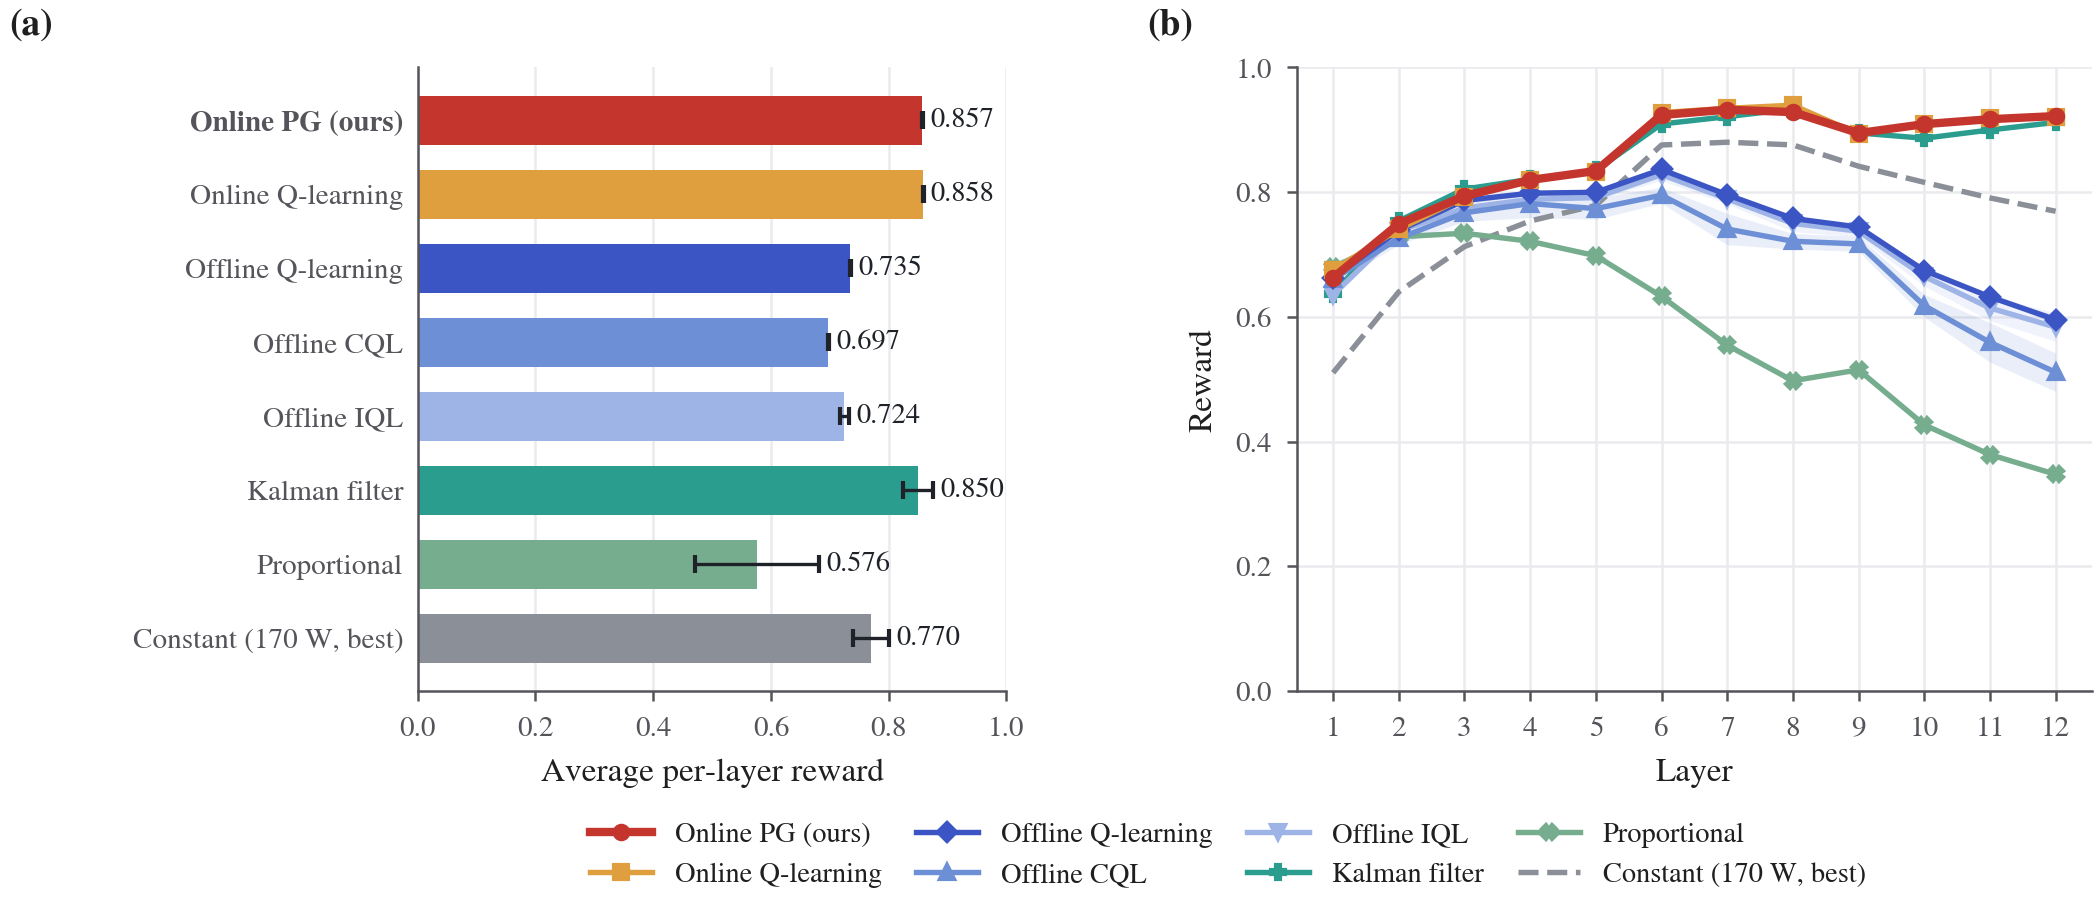
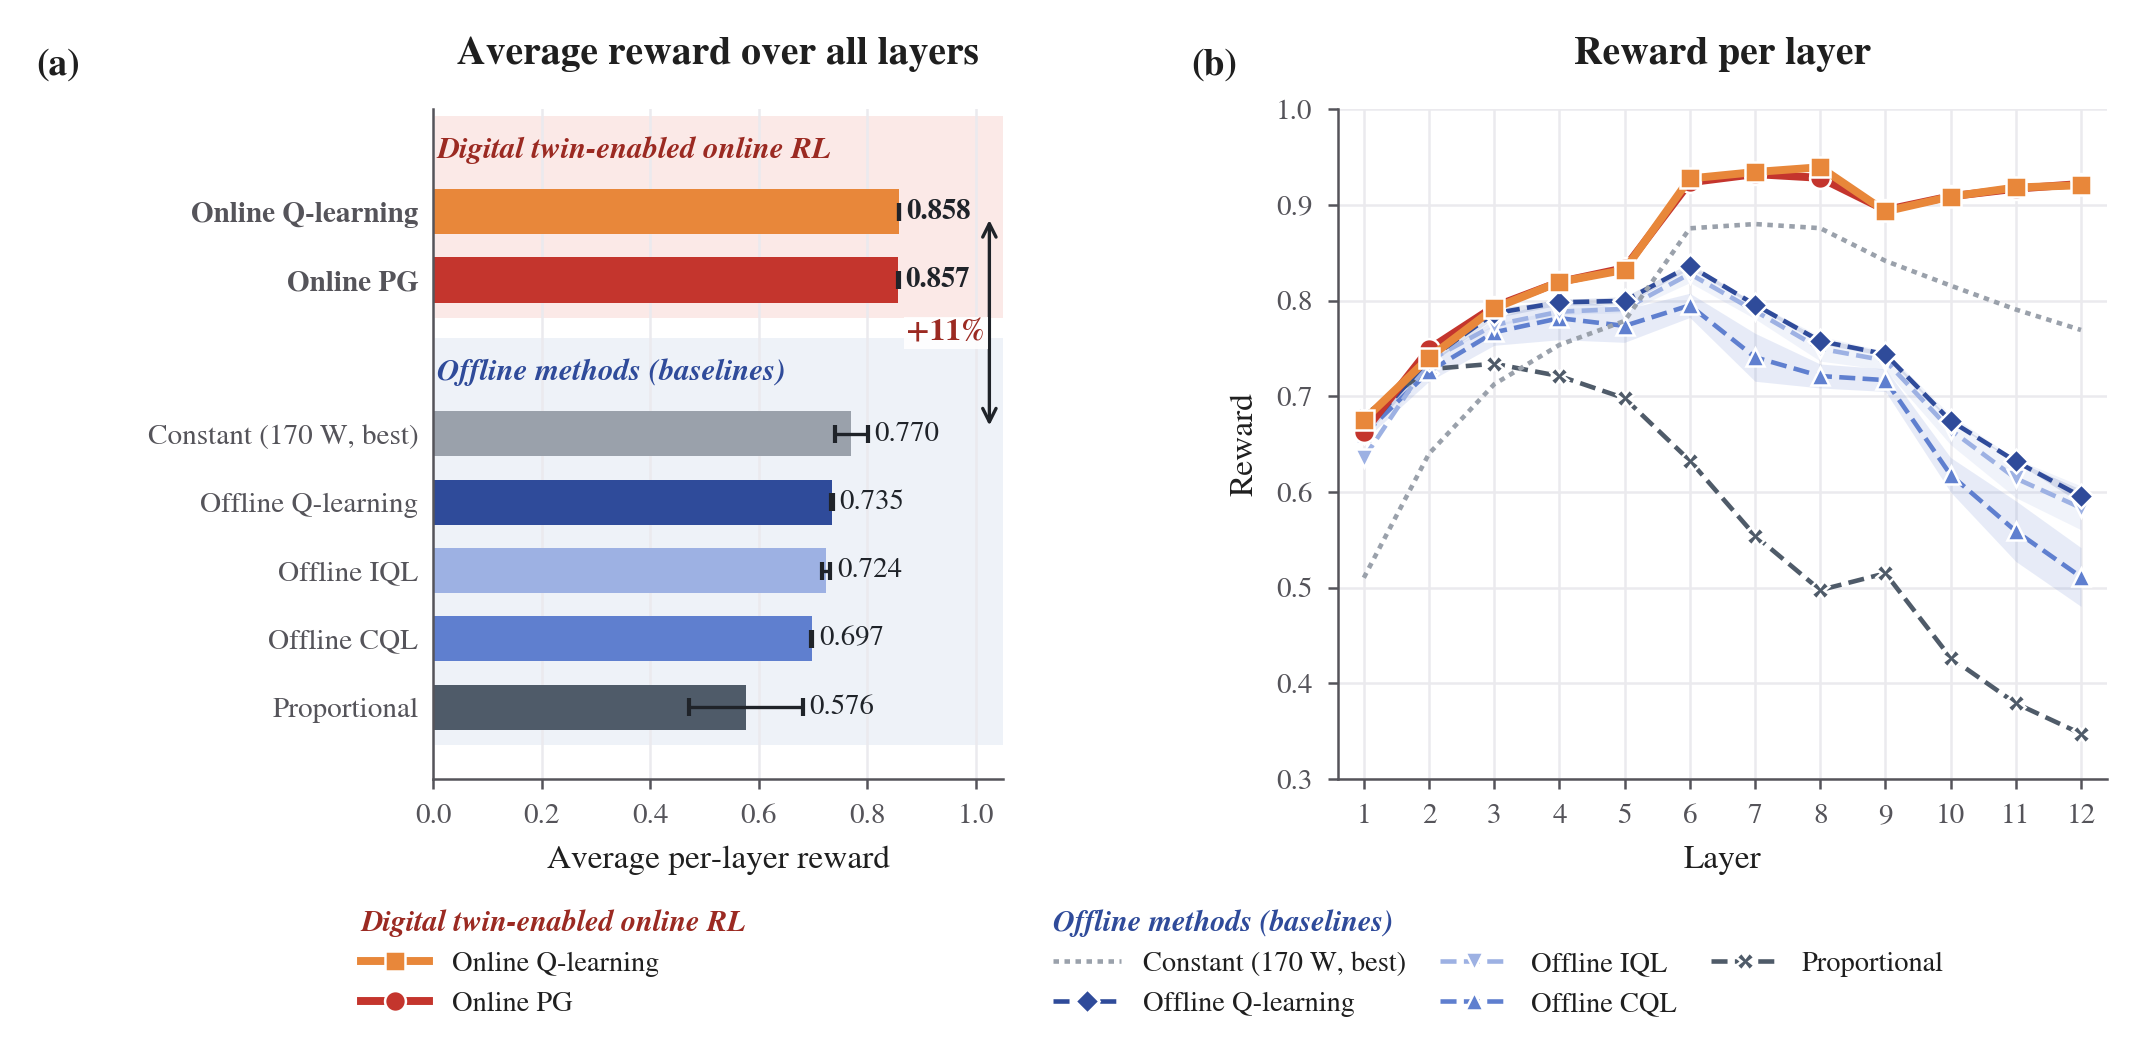
Revise: figures

diff --git a/rl_narrow/plot_results.py b/rl_narrow/plot_results.py
@@ -7,7 +7,8 @@ Paper figure of the real-physics comparison (narrow setting), from rl_narrow/res
   (b) per-layer reward (mean over episodes and seeds; band: std across seeds for multi-seed methods).
 Reward = method.tex reward with w = 1, i.e. the ROI mean exp(-d / W_T) of the real end-of-heating field,
 so every method is scored on the same physical quality measure. Constant power: the best value in
-hindsight on these episodes.
+hindsight on these episodes. Methods are grouped into digital twin-enabled online RL and offline methods
+(no digital twin); the Kalman filter is not shown.
 
     python -m rl_narrow.plot_results --results_dir rl_narrow/results_real \
         --out Document/figures/fig_rl_comparison
@@ -28,17 +29,20 @@ import numpy as np
 sys.path.insert(0, os.path.dirname(os.path.dirname(os.path.abspath(__file__))))
 from surrogate_model_v3.paper_figure_ood import PAPER_RC, INK_2, GRID, _panel_label
 
-# display order and style (family name as written by rl_narrow/jobs/eval_real.sh)
+# display order and style (family name as written by rl_narrow/jobs/eval_real.sh); group: "online" uses the
+# digital twin, "offline" never does (Kalman filter deliberately not shown)
+ONLINE_TITLE = "Digital twin-enabled online RL"
+OFFLINE_TITLE = "Offline methods (baselines)"
 STYLE = [
-    ("PG shaped (ours)",  "Online PG (ours)",  "#c4352d", "o", 2.0),
-    ("Online Q shaped",   "Online Q-learning", "#e09f3e", "s", 1.3),
-    ("Offline FQI",       "Offline Q-learning", "#3b55c4", "D", 1.3),
-    ("Offline CQL",       "Offline CQL",       "#6d8fd6", "^", 1.3),
-    ("Offline IQL",       "Offline IQL",       "#9fb4e6", "v", 1.3),
-    ("Kalman filter",     "Kalman filter",     "#2a9d8f", "P", 1.3),
-    ("Proportional",      "Proportional",      "#76ad8f", "X", 1.3),
-    ("Constant",          None,                "#8a8f98", "", 1.3),     # label set from best power
+    ("PG shaped (ours)",  "Online PG",          "#c4352d", "o", 1.9, "online"),
+    ("Online Q shaped",   "Online Q-learning",  "#e8873a", "s", 1.9, "online"),
+    ("Offline FQI",       "Offline Q-learning", "#2f4b9a", "D", 1.1, "offline"),
+    ("Offline CQL",       "Offline CQL",        "#5f7fcf", "^", 1.1, "offline"),
+    ("Offline IQL",       "Offline IQL",        "#9db1e3", "v", 1.1, "offline"),
+    ("Proportional",      "Proportional",       "#4f5b69", "X", 1.1, "offline"),
+    ("Constant",          None,                 "#9aa1ab", "",  1.1, "offline"),   # label set from best power
 ]
+BAND = {"online": "#fbe9e7", "offline": "#eef2f8"}
 
 
 def load(results_dir):
@@ -71,9 +75,9 @@ def main():
     p_best = fams.pop("_const_power", None)
 
     plt.rcParams.update(PAPER_RC)
-    fig, (axa, axb) = plt.subplots(1, 2, figsize=(7.2, 2.7), gridspec_kw=dict(width_ratios=[1, 1.35], wspace=0.42))
+    fig, (axa, axb) = plt.subplots(1, 2, figsize=(7.2, 2.9), gridspec_kw=dict(width_ratios=[1, 1.35], wspace=0.50))
     rows = []
-    for key, label, col, mk, lw in STYLE:
+    for key, label, col, mk, lw, grp in STYLE:
         if key not in fams:
             continue
         Ms = fams[key]
@@ -82,49 +86,90 @@ def main():
         mean = per_seed.mean()
         err = per_seed.std() if len(Ms) > 1 else Ms[0].mean(1).std()
         curve = np.stack([M.mean(0) for M in Ms])                                    # (seeds, layers)
-        rows.append((label, col, mk, lw, mean, err, curve))
+        rows.append((label, col, mk, lw, mean, err, curve, grp))
 
-    # (a) average reward
-    y = np.arange(len(rows))[::-1]
-    for yi, (label, col, _mk, _lw, mean, err, _c) in zip(y, rows):
-        axa.barh(yi, mean, xerr=err, color=col, height=0.66, error_kw=dict(ecolor="#1f2329", lw=0.8, capsize=2.2))
-        axa.text(mean + err + 0.012, yi, f"{mean:.3f}", va="center", ha="left", fontsize=6.8, color="#1f2329")
-    axa.set_yticks(y)
+    # sort within each group by average reward (best first)
+    rows = sorted(rows, key=lambda r: (r[7] != "online", -r[4]))
+
+    # (a) average reward (bars from zero)
+    ypos, y, headers = {}, 0.0, []
+    for grp, title in (("online", ONLINE_TITLE), ("offline", OFFLINE_TITLE)):
+        members = [r for r in rows if r[7] == grp]
+        if not members:
+            continue
+        top = y
+        headers.append((y, title, grp)); y -= 0.9
+        for r in members:
+            ypos[r[0]] = y; y -= 1.0
+        axa.axhspan(y + 0.45, top + 0.5, color=BAND[grp], lw=0, zorder=0)
+        y -= 0.35
+    x_lo, x_hi = 0.0, 1.05
+    for label, col, mk, _lw, mean, err, _c, grp in rows:
+        yi = ypos[label]
+        axa.barh(yi, mean, xerr=err, color=col, height=0.66, zorder=2,
+                 error_kw=dict(ecolor="#1f2329", lw=0.8, capsize=2.2))
+        axa.text(mean + err + 0.012, yi, f"{mean:.3f}", va="center", ha="left", fontsize=6.9,
+                 color="#1f2329", fontweight="bold" if grp == "online" else "normal", zorder=5)
+    for yh, title, grp in headers:
+        axa.text(0.008, yh, title, ha="left", va="center", fontsize=7.4, fontstyle="italic",
+                 fontweight="bold", color="#9b2a22" if grp == "online" else "#2f4b9a", zorder=3)
+    best_on = max((r for r in rows if r[7] == "online"), key=lambda r: r[4])
+    best_off = max((r for r in rows if r[7] == "offline"), key=lambda r: r[4])
+    gain = 100.0 * (best_on[4] / best_off[4] - 1.0)
+    xb = x_hi - 0.025
+    axa.annotate("", xy=(xb, ypos[best_on[0]]), xytext=(xb, ypos[best_off[0]]),
+                 arrowprops=dict(arrowstyle="<->", color="#1f2329", lw=0.8, shrinkA=2, shrinkB=2), zorder=5)
+    axa.text(xb - 0.008, (ypos[best_on[0]] + ypos[best_off[0]]) / 2 - 0.15, f"+{gain:.0f}%", ha="right",
+             va="center", fontsize=7.6, fontweight="bold", color="#9b2a22", zorder=5,
+             bbox=dict(fc="white", ec="none", pad=0.6, alpha=0.9))
+    axa.set_yticks([ypos[r[0]] for r in rows])
     axa.set_yticklabels([r[0] for r in rows])
     for t, r in zip(axa.get_yticklabels(), rows):
-        if "ours" in r[0]:
+        if r[7] == "online":
             t.set_fontweight("bold")
-    axa.set_xlim(0, 1.0)
+    axa.set_ylim(y + 0.3, 0.6)
+    axa.set_xlim(x_lo, x_hi)
     axa.set_xlabel("Average per-layer reward")
     axa.grid(axis="x", color=GRID, lw=0.6); axa.set_axisbelow(True)
     axa.tick_params(axis="y", length=0)
     _panel_label(axa, "a", x=-0.62)
+    axa.set_title("Average reward over all layers", pad=11, fontsize=9.5, fontweight="bold")
 
-    # (b) per-layer reward
-    for label, col, mk, lw, _m, _e, curve in rows[::-1]:
-        L = np.arange(1, curve.shape[1] + 1)
+    # (b) per-layer reward: online solid / offline dashed; bands = std across seeds
+    handles = {"online": [], "offline": []}
+    Lx = np.arange(1, rows[0][6].shape[1] + 1)
+    for label, col, mk, lw, _m, _e, curve, grp in rows[::-1]:
         mu = curve.mean(0)
         if curve.shape[0] > 1:
-            axb.fill_between(L, mu - curve.std(0), mu + curve.std(0), color=col, alpha=0.15, lw=0)
-        axb.plot(L, mu, color=col, marker=mk or None, ms=3.2, lw=lw, label=label,
-                 ls="--" if label.startswith("Constant") else "-", zorder=5 if "ours" in label else 3)
+            axb.fill_between(Lx, mu - curve.std(0), mu + curve.std(0), color=col, alpha=0.15, lw=0, zorder=2)
+        ls = "-" if grp == "online" else ((0, (1.2, 1.2)) if label.startswith("Constant") else (0, (3.5, 1.6)))
+        h, = axb.plot(Lx, mu, color=col, marker=mk or None, ms=5.0 if grp == "online" else 4.2, mec="white",
+                      mew=0.6, lw=lw, label=label, ls=ls, zorder=5 if grp == "online" else 3)
+        handles[grp].insert(0, h)
     axb.set_xlabel("Layer")
     axb.set_ylabel("Reward")
     axb.set_xticks(range(1, 13))
-    axb.set_ylim(0, 1.0)
+    axb.set_xlim(0.6, 12.4)
+    axb.set_ylim(0.3, 1.0)
     axb.grid(color=GRID, lw=0.6); axb.set_axisbelow(True)
-    h, l = axb.get_legend_handles_labels()
-    fig.legend(h[::-1], l[::-1], fontsize=6.8, ncol=4, loc="upper center", bbox_to_anchor=(0.5, -0.02),
-               handlelength=2.2, columnspacing=1.2, frameon=False)
+    leg_kw = dict(fontsize=6.8, frameon=False, handlelength=2.4, columnspacing=1.2, title_fontsize=7.2)
+    l1 = fig.legend(handles["online"], [h.get_label() for h in handles["online"]], ncol=1, loc="upper left",
+                    bbox_to_anchor=(0.08, -0.01), title=ONLINE_TITLE, **leg_kw)
+    l2 = fig.legend(handles["offline"], [h.get_label() for h in handles["offline"]], ncol=3, loc="upper left",
+                    bbox_to_anchor=(0.40, -0.01), title=OFFLINE_TITLE, **leg_kw)
+    for lg, c in ((l1, "#9b2a22"), (l2, "#2f4b9a")):
+        lg.get_title().set_fontweight("bold"); lg.get_title().set_fontstyle("italic"); lg.get_title().set_color(c)
+        lg._legend_box.align = "left"
     _panel_label(axb, "b", x=-0.13)
+    axb.set_title("Reward per layer", pad=11, fontsize=9.5, fontweight="bold")
 
     os.makedirs(os.path.dirname(args.out) or ".", exist_ok=True)
     for ext in ("pdf", "png"):
-        fig.savefig(f"{args.out}.{ext}", dpi=300, bbox_inches="tight")
+        fig.savefig(f"{args.out}.{ext}", dpi=300, bbox_inches="tight", pad_inches=0.12)
     with open(f"{args.out}_data.json", "w") as f:                   # everything drawn, for restyling later
         json.dump(dict(reward="EoH ROI mean exp(-d/W_T) (w = 1), real physics",
-                       methods=[dict(label=r[0], color=r[1], marker=r[2], mean=float(r[4]), err=float(r[5]),
-                                     per_layer_seed_curves=r[6].tolist()) for r in rows]), f, indent=1)
+                       methods=[dict(label=r[0], group=r[7], color=r[1], marker=r[2], mean=float(r[4]),
+                                     err=float(r[5]), per_layer_seed_curves=r[6].tolist()) for r in rows]), f, indent=1)
     print("saved", args.out, "(+ _data.json) |", ", ".join(f"{r[0]} {r[4]:.3f}±{r[5]:.3f}" for r in rows))
 
 
